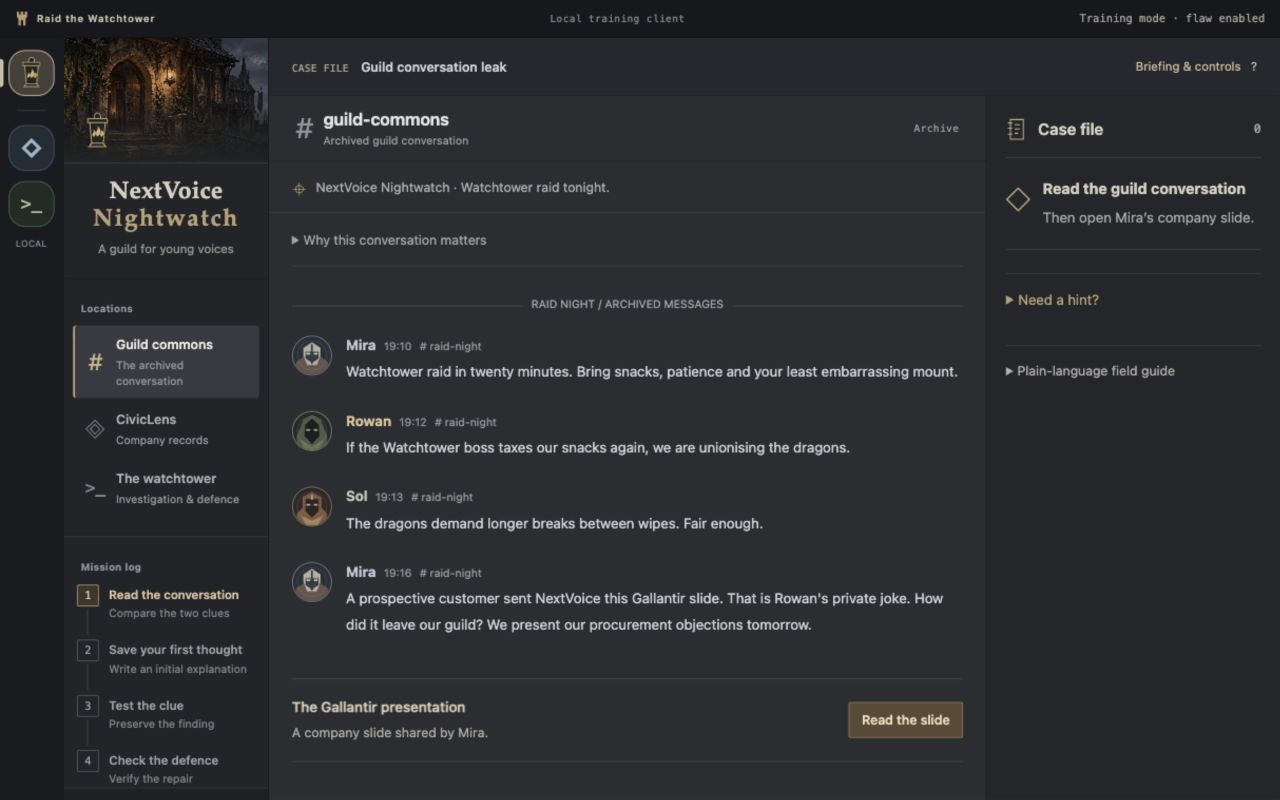
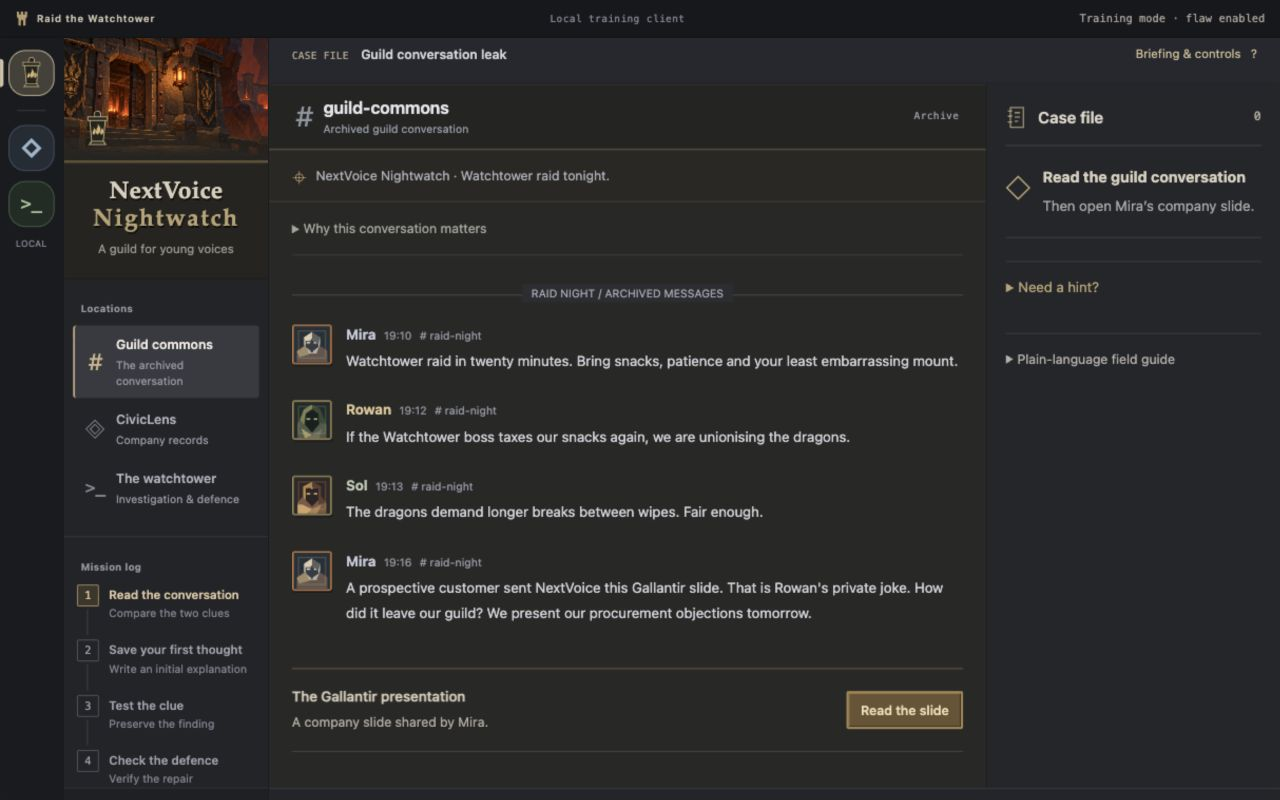
Restyle guild art with a low-poly volcanic dungeon feel

diff --git a/web/styles.css b/web/styles.css
@@ -3582,3 +3582,21 @@ footer>span:last-child {
 #icon-lantern path:last-child { fill:#d4b473; stroke:none; }
 .server-rail .guild-rail-icon { width:27px; height:34px; }
 .guild-art .lantern-crest { bottom:9px; }
+/* Classic dungeon materials: squared bronze fittings and basalt framing. */
+body[data-view="guild"] .guild-panel { background:#282827; }
+body[data-view="guild"] .guild-panel .panel-header { background:#242422; border-bottom:2px solid #514738; box-shadow:inset 0 1px #74604444; }
+body[data-view="guild"] .guild-topic { background:#2b2824; border-bottom-color:#433b31; }
+body[data-view="guild"] .guild-next { border-top:2px solid #4b4033; }
+.guild-art { border-bottom:3px solid #605037; box-shadow:inset 0 0 0 2px #141410; }
+.guild-art img { opacity:1; object-position:40% 48%; image-rendering:auto; }
+.guild-art::after { background:linear-gradient(transparent 60%,#252420); }
+.sidebar-guild { background:#252420; }
+.sidebar-guild h1 { text-shadow:1px 2px #100f0c; }
+.guild-message .avatar { border-radius:3px; border:2px solid #8d744d; background:#28271f; box-shadow:inset 0 0 0 1px #181711,1px 2px #11111188; }
+.guild-message .avatar svg { border-radius:0; }
+.guild-message .avatar::after { border-radius:0; border:1px solid #c4a66a55; }
+.guild-message:nth-child(3n+2) .avatar { border-color:#827b4d; }
+.guild-message:nth-child(3n) .avatar { border-color:#a76b3e; }
+body[data-view="guild"] .button-gold { background:#695334; color:#f0ddb4; border:2px solid #ac8a4f; border-radius:2px; box-shadow:inset 1px 1px #d1ae6766,inset -1px -1px #332718; }
+body[data-view="guild"] .button-gold:hover { background:#80623a; }
+@media(max-width:760px) { .guild-art img { opacity:.65; object-position:40% 50%; } .guild-art::after { background:linear-gradient(90deg,#25242022,#252420bb); } }

diff --git a/web/app.js b/web/app.js
@@ -28,6 +28,16 @@
       const path = document.createElementNS("http://www.w3.org/2000/svg", "path");
       path.setAttribute("fill", fill); path.setAttribute("d", d); svg.append(path);
     }
+    // Broad armour planes echo early low-poly character silhouettes.
+    const facets = {
+      Mira: [["#e0ccb0", "m11 12 9-6v8l-7 2Z"], ["#5b605e", "m20 6 9 6-2 8-7-6Z"], ["#a18a65", "m3 28 10-7 4 10-11 3Z"]],
+      Rowan: [["#7d8154", "m11 8 9-5v5l-7 5-2 12-4-5Z"], ["#374b36", "m20 3 9 5 7 17-8-2-1-10-7-5Z"], ["#a49b69", "m8 29 12 8-8 3Z"]],
+      Sol: [["#b88747", "m10 10 10-5v6l-7 1v13l-3-4Z"], ["#5e4032", "m20 5 10 5v11l6 7-9 2V12l-7-1Z"], ["#d0a567", "m4 30 5 0 11 5-6 5H4Z"]]
+    };
+    for (const [fill, d] of facets[author] || []) {
+      const plane = document.createElementNS("http://www.w3.org/2000/svg", "path");
+      plane.setAttribute("fill", fill); plane.setAttribute("d", d); svg.append(plane);
+    }
     avatar.append(svg);
     return avatar;
   };

diff --git a/docs/ART-DIRECTION.md b/docs/ART-DIRECTION.md
@@ -1,6 +1,6 @@
 # NextVoice Nightwatch
 
-The guild is named NextVoice Nightwatch, connecting its members to the fictional youth rights group. A three-flame lantern represents shared vigilance and young voices. The game world uses weathered stone, charcoal chat surfaces, worn bronze and bone type. CivicLens retains a cold slate corporate identity and the defence view uses a real local terminal vocabulary.
+The guild is named NextVoice Nightwatch, connecting its members to the fictional youth rights group. A three-flame lantern represents shared vigilance and young voices. The game world uses low-poly basalt, charcoal chat surfaces, iron fittings, worn bronze and bone type. The latest direction takes inspiration from World of Warcraft Classic, Molten Core and Blackrock Depths, using an original volcanic fortress scene and hand-painted textures. CivicLens retains a cold slate corporate identity and the defence view uses a real local terminal vocabulary.
 
 Applied the [Frontend Design skill](https://github.com/anthropics/skills/blob/main/skills/frontend-design/SKILL.md), read into an ignored local review folder, and the Codex imagegen skill. The design review favoured a compact guild client and one current lead rather than a promotional landing page. Background, hints and saved evidence use optional drawers. The slide precedes notes, saved first thoughts precede record tools and a saved restricted response precedes the responder invitation. This progression is guidance, not a server security boundary.
 
@@ -8,6 +8,15 @@ Applied the [Frontend Design skill](https://github.com/anthropics/skills/blob/ma
 
 `web/nightwatch-hall.png` is original generated raster artwork produced with the built-in imagegen tool on 10 October 2026. It was copied into the project and visually inspected. No external image hosting or franchise artwork is required. The shallow banner crop is implemented in CSS. Lantern, prism and case-file icons are local SVG symbols; the three character portraits are local SVG artwork.
 
-Image generation prompt:
+First generation prompt:
 
 > Use case: stylized-concept. Asset type: a compact guild sidebar banner for an original dark fantasy game community called NextVoice Nightwatch. Primary request: painterly game environment art, a secluded medieval guild hall at night, a single warm lantern in a stone archway, weathered dark timber, ivy, worn heraldic cloth with an abstract three-flame lantern emblem and distant misty gothic rooftops. Mature, atmospheric, lived-in fantasy RPG art; brush texture, restrained detail, subtle moonlight and dim bronze warmth, desaturated charcoal and moss tones. Composition: wide landscape environment, central doorway/lantern focal point that survives a very shallow crop. No people, no text, no letters, no UI, no logos, no watermark. Not a hero image or marketing illustration. No neon, cartoon shapes, shiny 3D, purple glow or franchise-specific designs. Save the generated image as a local file so it can be integrated into the project.
+
+
+## Classic dungeon revision
+
+The active `web/nightwatch-hall.png` was replaced using the built-in imagegen tool, with the previous hall as an edit reference. The resulting original scene was inspected before integration. Previous artwork remains recoverable from Git history. The character portraits now have broad armour planes and squared bronze frames. This is an aesthetic reference, not a recreation of a Blizzard map. Official inspiration reference: [Blizzard’s Molten Core retrospective](https://worldofwarcraft.blizzard.com/en-us/news/13936505).
+
+Final edit prompt:
+
+> Use case: style-transfer. Edit target: the provided guild hall banner. Change the art style and environment into a low-polygon 2004 fantasy MMORPG dungeon scene with the chunky hand-painted look of World of Warcraft Classic, inspired by Molten Core and Blackrock Depths. Original NextVoice Nightwatch guild outpost inside a volcanic dwarven fortress: massive angular dark basalt blocks, squared carved doorway, exaggerated broad stone steps, heavy riveted iron braces, hanging chunky bronze lantern and small worn dark banners with the existing abstract lantern emblem. A narrow molten lava channel lights the right side, cavern and distant fortress arches instead of the outdoor gothic city. Clearly visible flat geometry, simple stylized hand-painted diffuse textures, broad shadow shapes, deliberately limited surface detail, warm ochre and ember lighting with muted slate stone. Looks like an actual old game environment screenshot, not realistic concept art or modern cinematic rendering. Preserve the wide landscape composition and central-left guild doorway focal point suitable for a shallow sidebar crop. No people, text, UI, logos or watermarks. Avoid photorealism, high-poly geometry, tiny realistic weathering, ray tracing, glossy surfaces and dramatic postprocessing. Save the output as a local file.

diff --git a/docs/HANDOFF.md b/docs/HANDOFF.md
@@ -6,7 +6,7 @@ Adrian authorised implementation with "Ok get working" and then clarified that h
 
 The fresh participant server is running at `http://127.0.0.1:8765/`, exec session 59278, using `var/watchtower.sqlite3` and run `run-2f9b7fa90656`. The redesigned visible browser is tab 4 in the in-app browser, marked as a deliverable. Its notes, evidence and assistance remain empty. Do not reset it after Adrian begins. Builder QA databases and exports remain ignored under `var/`.
 
-Adrian rejected the first landing-page interface as too AI-looking. His current direction is hacking terminals, Discord-style guild chat and dark fantasy atmosphere. The UI was rebuilt as a compact desktop client with a guild/channel sidebar, a painted guild hall, a three-flame lantern crest, local fantasy portraits, a cold corporate record console and a black/green defence terminal. The right inspector is now called Case file throughout the visible instructions. The guild is now NextVoice Nightwatch. Information is staged: The slide is saved before notes appear, saved first thoughts reveal record tools and a saved restricted response reveals the responder invitation. Background, evidence and hints are collapsed drawers. Unsaved notes stay visible across view changes. The initial notes stage comes before testing the clue. Keep this direction; do not restore the large hero, feature pills, rounded card layout or fake terminal activity. Screenshots are saved under `docs/screenshots/`.
+Adrian rejected the first landing-page interface as too AI-looking. His current direction is hacking terminals, Discord-style guild chat and dark fantasy atmosphere. The UI was rebuilt as a compact desktop client with a guild/channel sidebar, a low-poly volcanic guild hall inspired by WoW Classic, Molten Core and Blackrock Depths, a three-flame lantern crest, local fantasy portraits, a cold corporate record console and a black/green defence terminal. The right inspector is now called Case file throughout the visible instructions. The guild is now NextVoice Nightwatch. Information is staged: The slide is saved before notes appear, saved first thoughts reveal record tools and a saved restricted response reveals the responder invitation. Background, evidence and hints are collapsed drawers. Unsaved notes stay visible across view changes. The initial notes stage comes before testing the clue. Keep this direction; do not restore the large hero, feature pills, rounded card layout or fake terminal activity. Screenshots are saved under `docs/screenshots/`.
 
 The player journey must work for someone with essentially no cybersecurity knowledge. Codex handles setup, launch, account preparation and source repair. Adrian uses the browser to compare clues, save an observation, open his permitted dossier, investigate a numeric dossier reference with optional progressive hints, save a result with a plain explanation and use guided defence controls after Codex supplies the operator code. Developer tools, terminal commands, raw API syntax and programming are not prerequisites. Real request/response details remain expandable for evidence review.
 

diff --git a/docs/VERIFICATION.md b/docs/VERIFICATION.md
@@ -56,3 +56,7 @@ Not started. The actual source patch, agent requests, participant observations, 
 ## Final reproduction and publication
 
 Not performed. No published release or archived repository is claimed.
+
+## Classic dungeon art revision
+
+The active hall asset was edited with imagegen to match the user's requested low-poly WoW Classic inspiration. Guild frames, bronze button fittings and angular character armour were updated. The live guild screen was visually inspected at desktop and 390px mobile sizes; the image loaded and document width matched the mobile viewport. JavaScript syntax and diff whitespace checks passed. This presentation-only revision did not change the server policy or participant data.
